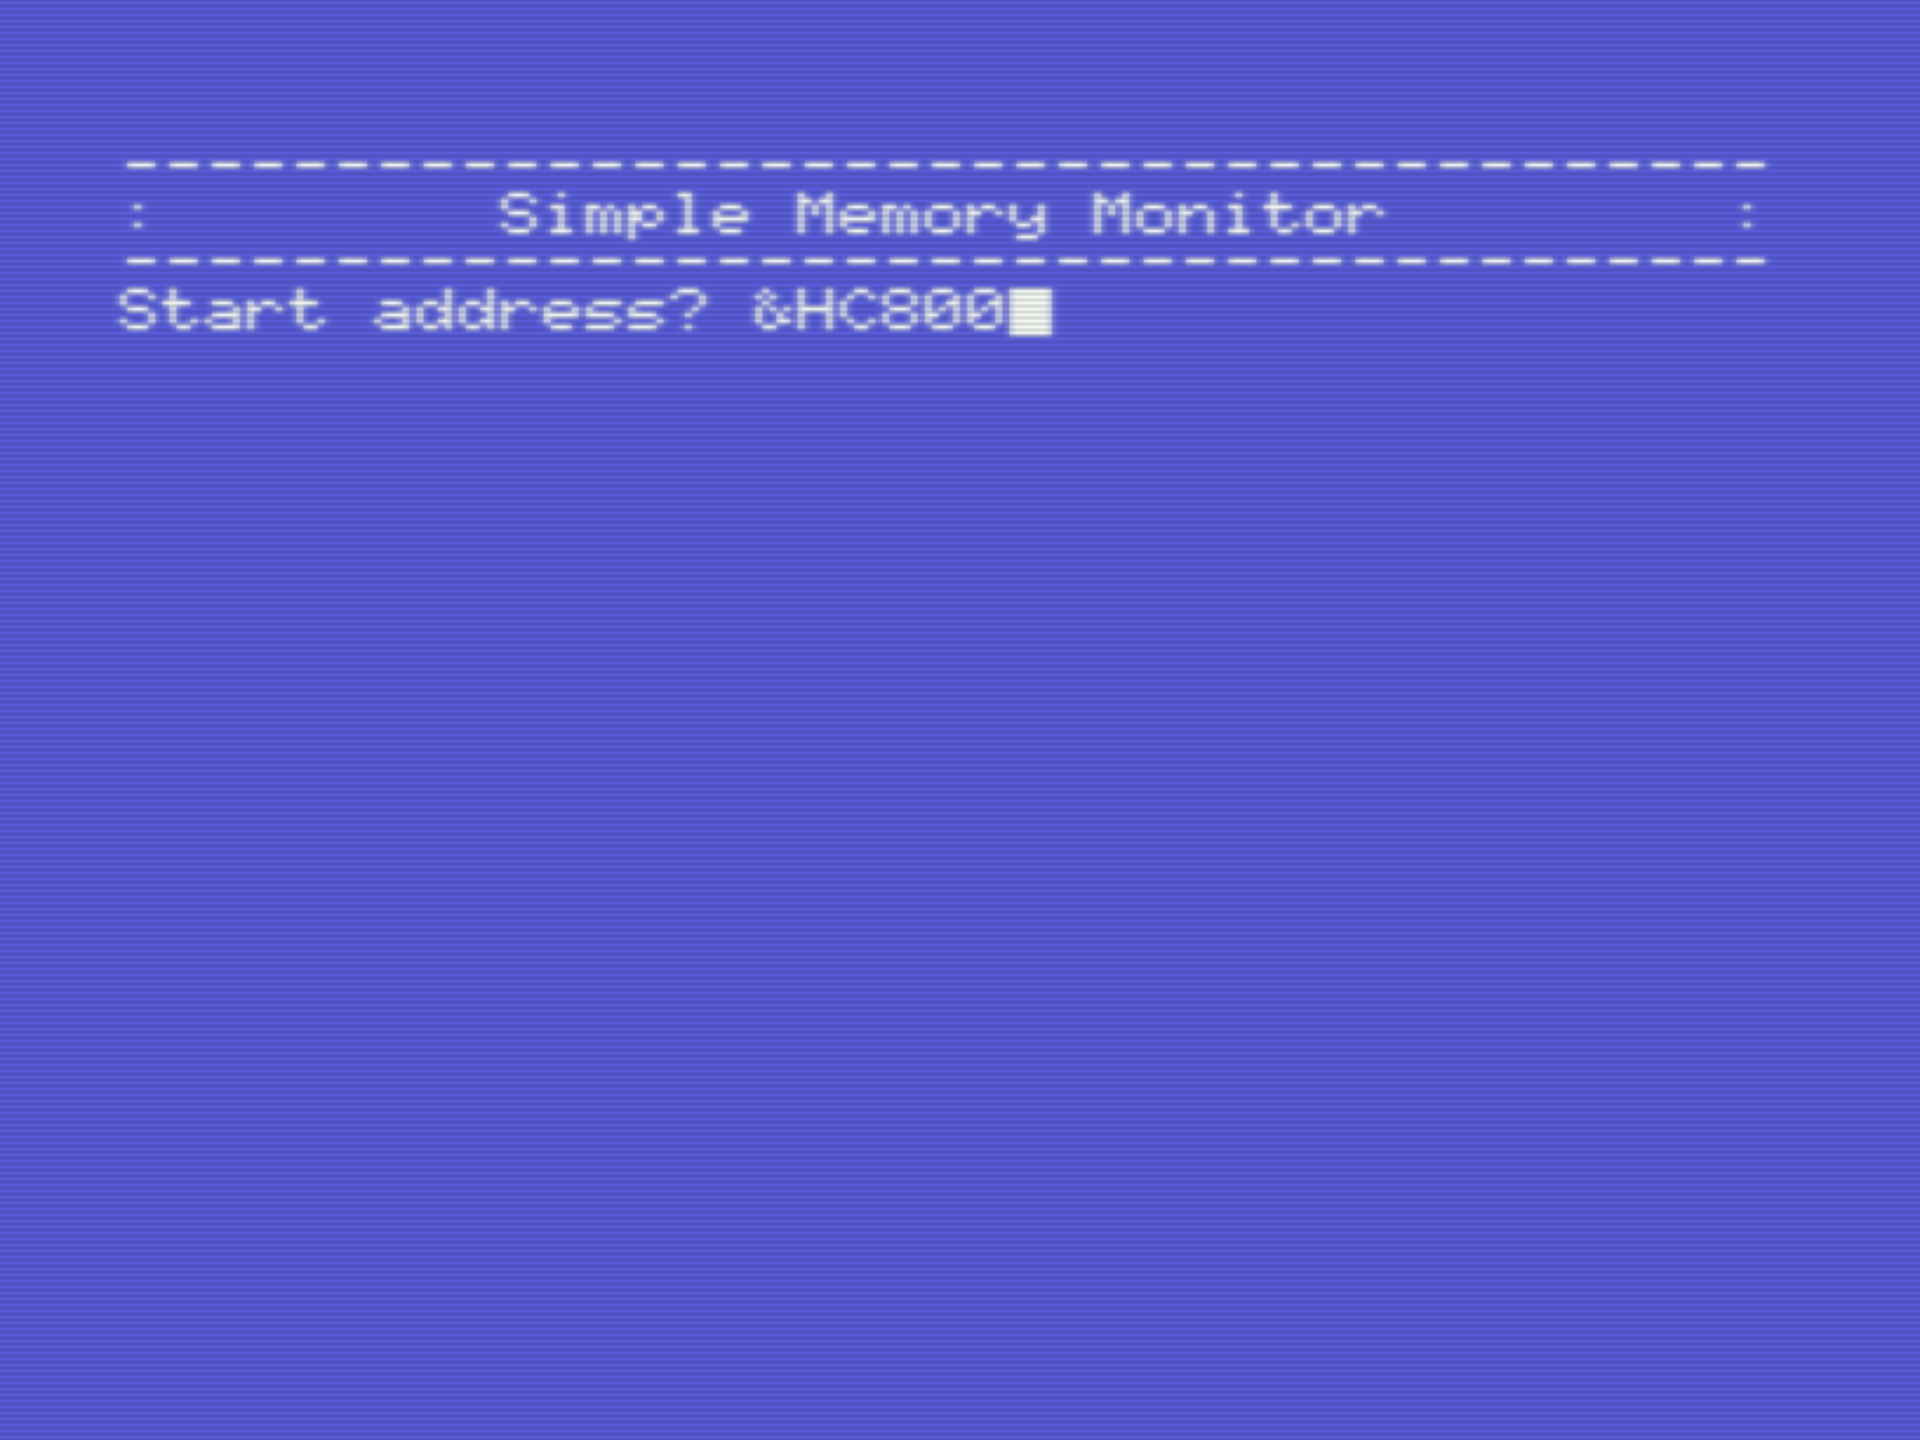
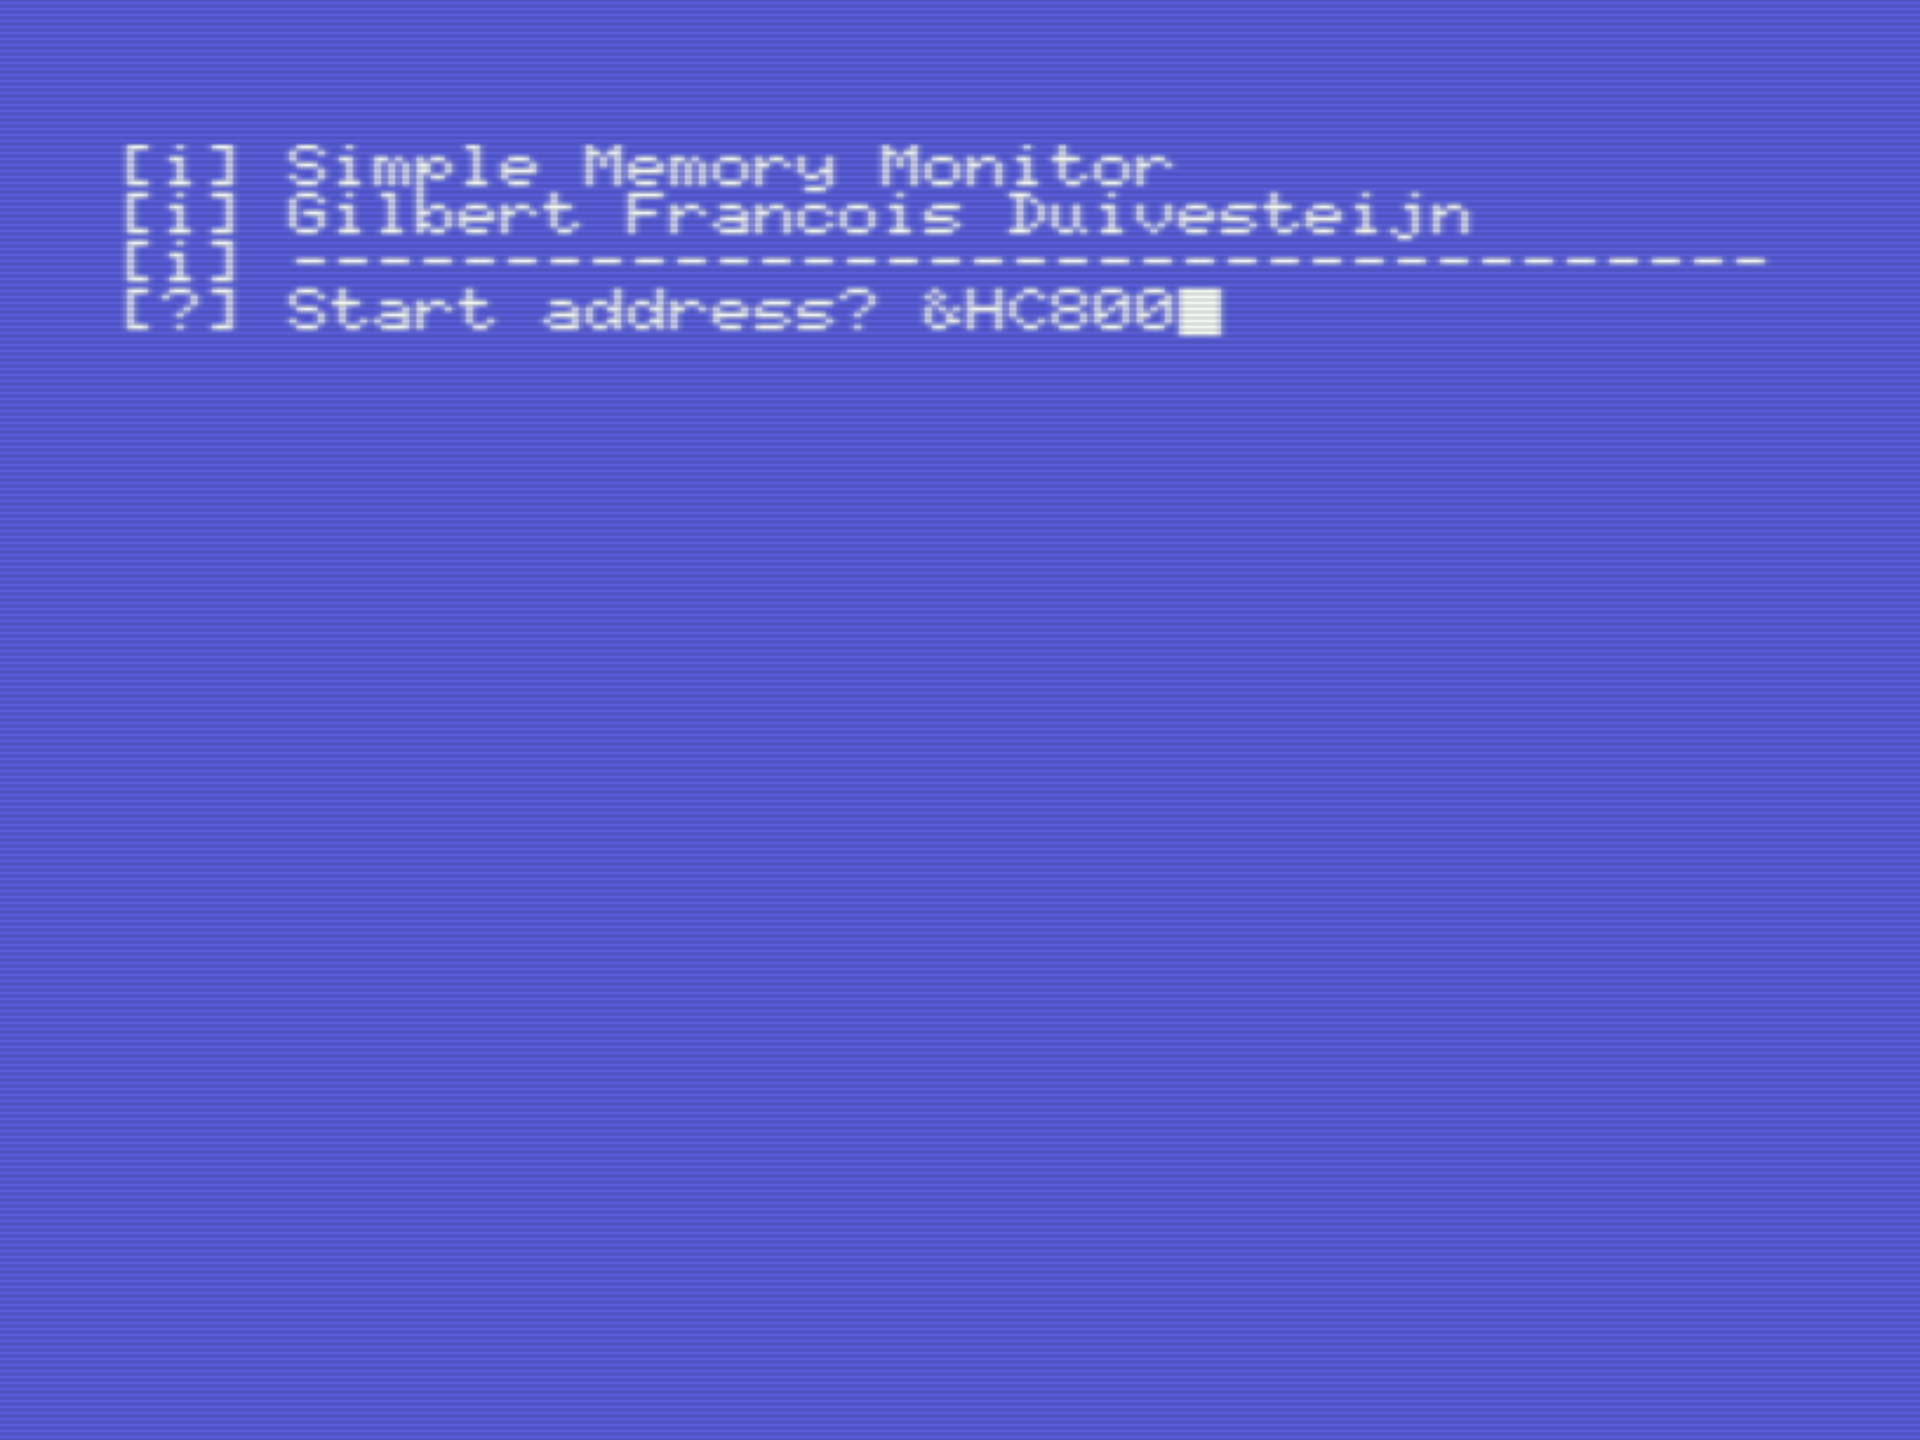
Updates screenshot

Changed region(s): [[0.0625, 0.0938, 0.9062, 0.25]]

diff --git a/README.md b/README.md
@@ -83,7 +83,7 @@ Then after taking an initial (x,y) coordinate, the new points are computed by re
 | ![](./assets/images/memview.png)                             |
 | Memory viewer for MSX(1), showing the memory usage of a Canon V-20. |
 
-[memmon.bas](./src/basic/memmon.bas) Memmon is a very simple memory monitor, written in basic. It asks for the start address and shows the memory content of the following 128 bytes.
+[memmon.bas](./src/basic/memmon.bas) Memmon is a very simple memory monitor, written in basic. It asks for the start address and shows the memory content of the following 128 bytes. I developed this program to help me with finding the last used address in my compiled assembly programs, needed for saving the binary data to cassette.
 |                                              |                                              |
 | -------------------------------------------- | -------------------------------------------- |
 | ![memmon_page1](./assets/images/memmon1.png) | ![memmon_page2](./assets/images/memmon2.png) |
